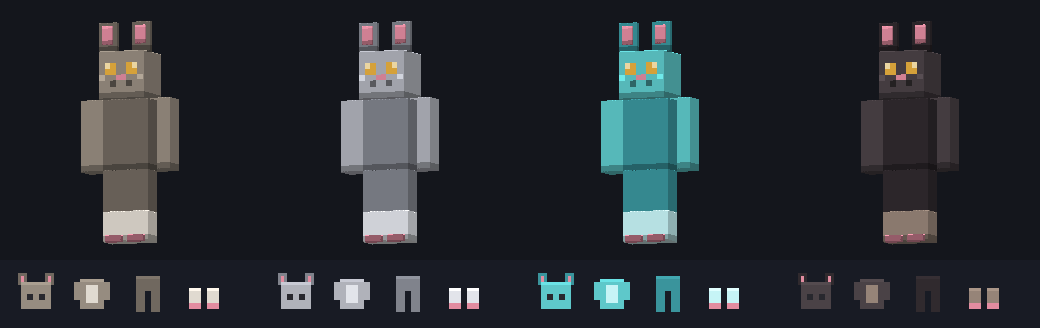
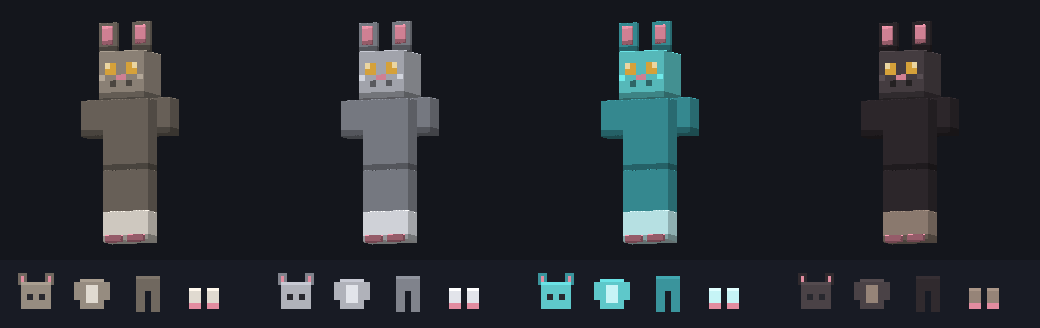
Västen får korta ärmar — armarna syns igen (v3.31.4)
Xbox-bild: "man har typ inga armar". Stämde precis.

Ärmkuberna täckte hela armen (y 12-24) och satt kant i kant med bålen: bålen
x -4..4, armarna 4..8. Med inflate växte de ihop till EN bred platta och
silhuetten läste som en låda med ben. Armarna fanns alltså, men ingen kunde
se dem som armar.

Nu är plagget en väst på riktigt: axelstycken (y 18-24) i den mörkare tonen,
med mindre inflate så axeln inte blir bredare än kroppen, och underarmen
lämnas bar. Armarna syns, rör sig med spelaren, och silhuetten läser som en
människa igen. Det är dessutom vad namnet lovade hela tiden — en väst är
ärmlös.

Förhandsbilden på sajten uppdaterad i samma veva.

diff --git a/tools/make_player_gear.py b/tools/make_player_gear.py
@@ -119,8 +119,16 @@ PLAGG = {
         "kuber": [
             ("body", [-4, 12, -2], [8, 12, 4], [0, 0], PALS, 1.01),
             ("body", [-2.5, 12.5, -2.6], [5, 8, 1], [26, 0], MAGE, 0.0),      # ljus bringa
-            ("leftArm", [4, 12, -2], [4, 12, 4], [40, 0], PALS, 1.0),
-            ("rightArm", [-8, 12, -2], [4, 12, 4], [40, 20], PALS, 1.0),
+            # KORTA ÄRMAR. Först täckte de hela armen (y 12-24) och satt kant i
+            # kant med bålen — med inflate växte de ihop till ETT brett block
+            # och spelaren såg armlös ut. Xbox-bild: "man har typ inga armar".
+            #
+            # En väst ÄR ärmlös, så plagget får axelstycken (y 18-24) och
+            # lämnar underarmen bar: armarna syns, rör sig, och silhuetten
+            # läser som en människa igen. Mindre inflate så axeln inte
+            # blir bredare än kroppen.
+            ("leftArm", [4, 18, -2], [4, 6, 4], [40, 0], PALS_MORK, 0.6),
+            ("rightArm", [-8, 18, -2], [4, 6, 4], [40, 14], PALS_MORK, 0.6),
         ],
     },
     "byxor": {

diff --git a/changelog-pending.md b/changelog-pending.md
@@ -1,6 +1,6 @@
 # Ej publicerat på CurseForge ännu
 
-## 3.31.3 — Dress like your cat, and two new neighbours in Cat Haven
+## 3.31.4 — Dress like your cat, and two new neighbours in Cat Haven
 
 The kids asked for it: *you* should be able to wear cat gear, not just the cat.
 
@@ -9,6 +9,12 @@ chest, darker trousers, and paws with pink pads. Leather and wool, the same
 materials the cats' own outfits are made of. It protects like iron — 2, 6, 5
 and 2 — so wearing it is a real choice rather than only dress-up, and it takes
 enchantments and mending like any other armour.
+
+**The vest is a vest.** It has shoulder pieces and leaves your forearms bare.
+The first version wrapped the whole arm and sat flush against the chest, so
+with the outward bevel every armour piece has, the two grew into one wide slab
+— reported from an Xbox as "you have basically no arms". Sleeveless is also
+what the name promised.
 
 **The suit comes in four tiers.** Leather, iron, diamond and netherite. You do
 not re-craft it — you upgrade the piece you already wear by combining it with
